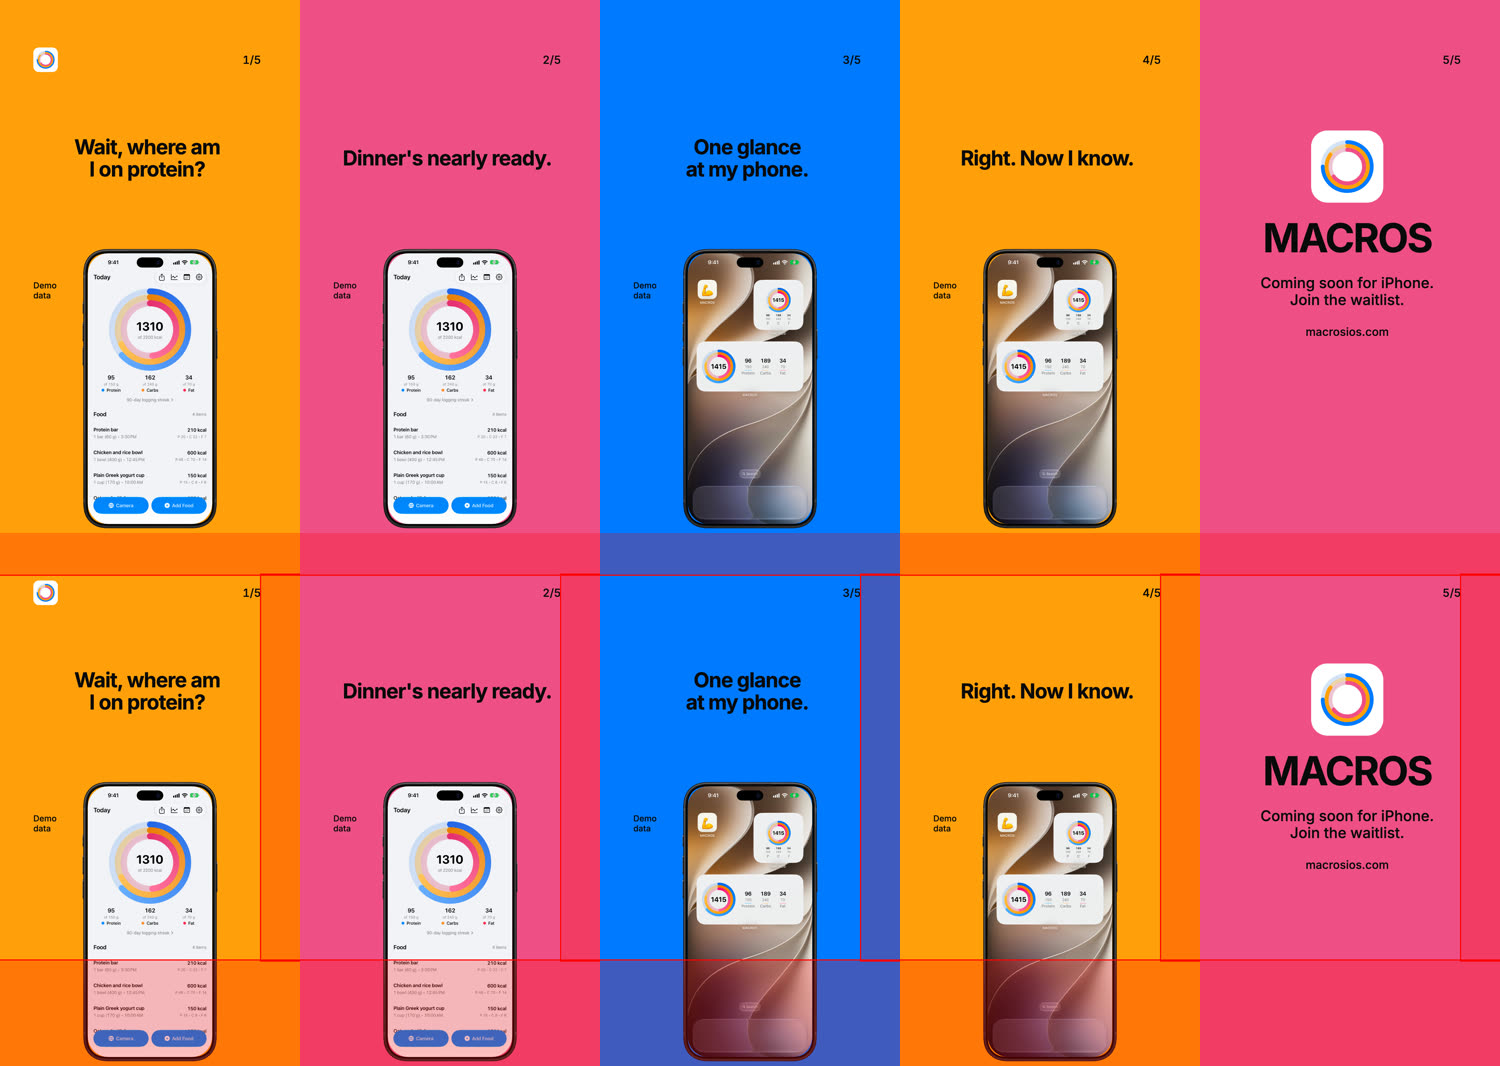
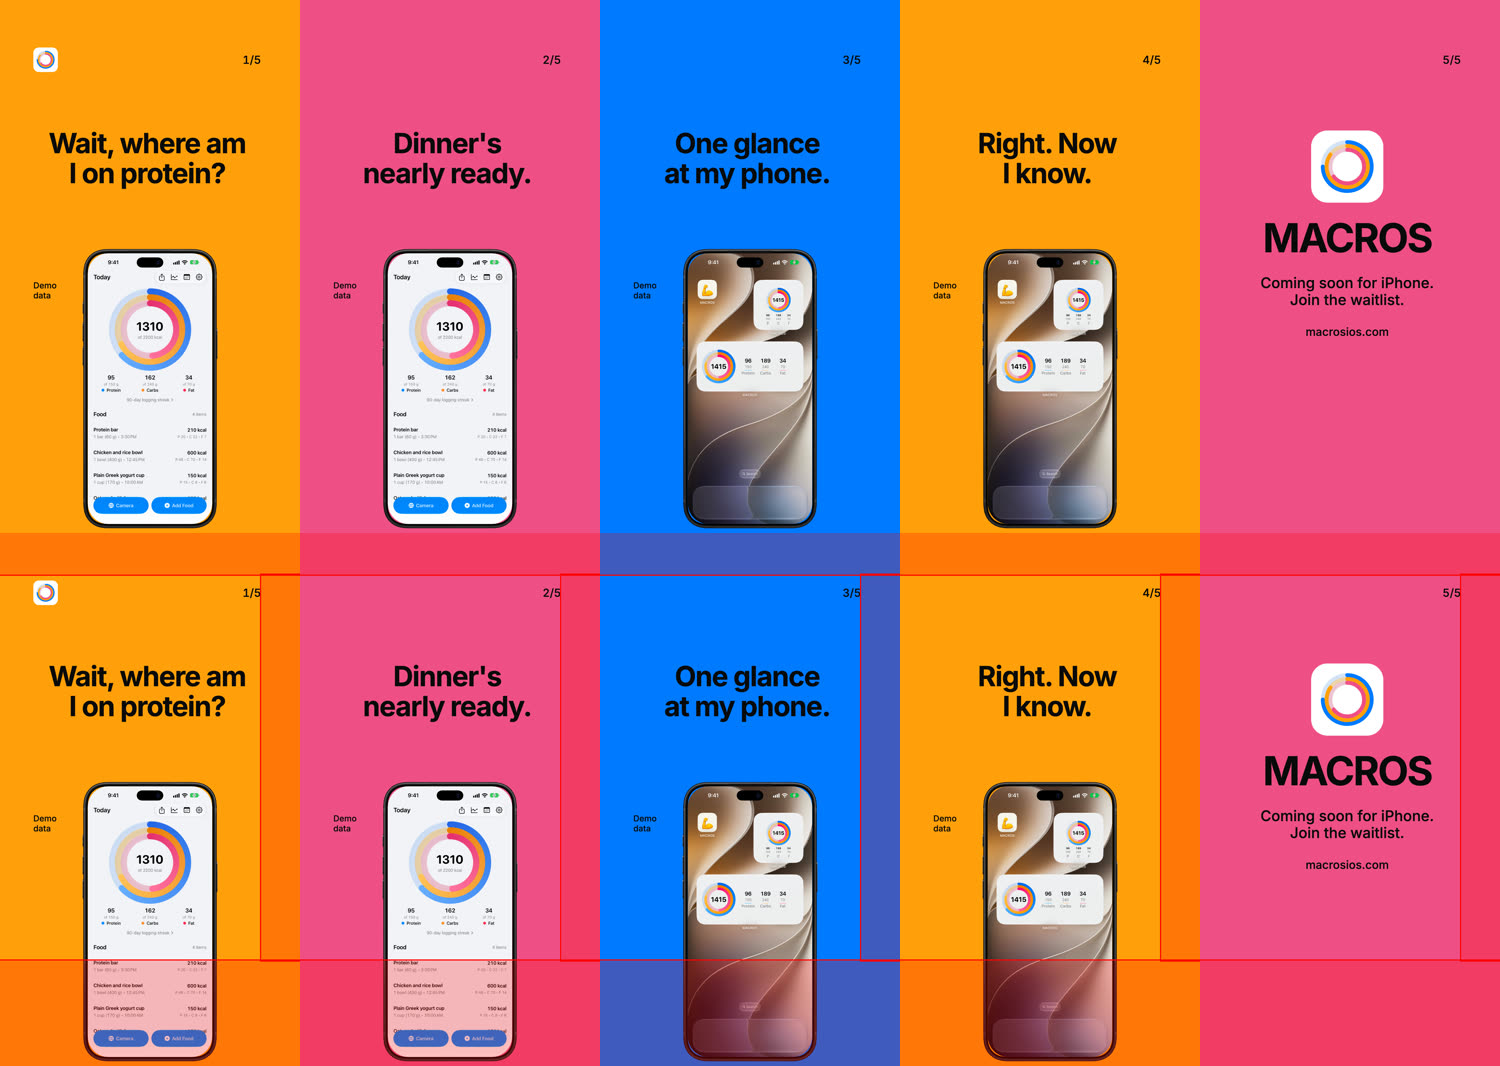
feat(slides): short and full headline variants at larger sizes
Each TikTok slide now renders in two headline variants with one size per variant:
- short (default, build/marketing/tiktok/): shorter headlines for five slides, 100 px, max two lines
- full (build/marketing/tiktok-full/): the original headlines, 105 px, max three lines

render:slides writes both variants; sheets:slides writes per-set sheets to
build/marketing/tiktok-compare/. Tracked evidence is five images (about 1.5 MB).

diff --git a/tools/media/trailer/src/slides.ts b/tools/media/trailer/src/slides.ts
@@ -3,8 +3,12 @@ import { COLORS } from "./shots";
 /** A screenshot in web/src/assets/app-images/ (without the extension), or "home-clean", the trailer's clean Home Screen still in public/sources/. */
 export type Screenshot = "app-home" | "app-scan-review" | "app-scan-details" | "app-add-food" | "app-history" | "home-clean";
 
+/** `short` is the shorter headline for copy 'short'; 'full' always uses `headline`. */
+export type Copy = "short" | "full";
+
 export type Slide = {
   headline: string; // empty on the last slide of a set, which is the CTA
+  short?: string; // used for copy 'short' when set, otherwise the headline is used
   color: string;
   screenshot?: Screenshot;
   /** Shows the small "Demo data" label beside the phone. */
@@ -22,33 +26,33 @@ export const SITE = "macrosios.com";
 const ring = [COLORS.protein, COLORS.carbs, COLORS.fat];
 
 /** Ring colours rotate: slide i of set n uses colour (n - 1 + i) mod 3, so neighbouring slides never match. */
-function set(n: number, slug: string, title: string, rows: [string, Screenshot?, boolean?][], caption: string, hashtags: string[], intro?: string): SlideSet {
-  const slides = rows.map(([headline, screenshot, demo], i): Slide => ({ headline, screenshot, demo, color: ring[(n - 1 + i) % 3] }));
+function set(n: number, slug: string, title: string, rows: [string, Screenshot?, boolean?, string?][], caption: string, hashtags: string[], intro?: string): SlideSet {
+  const slides = rows.map(([headline, screenshot, demo, short], i): Slide => ({ headline, short, screenshot, demo, color: ring[(n - 1 + i) % 3] }));
   slides.push({ headline: "", color: ring[(n - 1 + rows.length) % 3], intro });
   return { slug, title, slides, caption, hashtags };
 }
 
 export const SETS: SlideSet[] = [
   set(1, "protein-math", "Protein math", [
-    ["I stopped doing protein math in my head.", "app-home", true],
+    ["I stopped doing protein math in my head.", "app-home", true, "No more protein math."],
     ["Scan the label.", "app-scan-review"],
     ["Half the bag? Make it half.", "app-scan-details"],
     ["Protein's right there.", "app-home", true],
   ], "I got tired of adding up protein in my head, so I built an app that reads the label and keeps the total. Coming soon for iPhone.", ["#ProteinTracking", "#FoodDiary", "#GymTok", "#MACROSapp"]),
   set(2, "serving-on-the-box", "The serving on the box", [
-    ["\"Serving size\" isn't how much you ate.", "app-scan-review"],
+    ["\"Serving size\" isn't how much you ate.", "app-scan-review", undefined, "\"Serving size\" isn't your portion."],
     ["Eight servings. In this one box.", "app-scan-review"],
-    ["Scan it, then log what you actually had.", "app-scan-details"],
+    ["Scan it, then log what you actually had.", "app-scan-details", undefined, "Log what you actually ate."],
     ["Then sit down and eat.", "app-home", true],
   ], "A nutrition label lists one serving, and a box can hold eight. MACROS scans the label, then you log the amount you had. Coming soon for iPhone.", ["#NutritionLabels", "#FoodLogging", "#MacroTracking", "#MACROSapp"]),
   set(3, "why-my-email", "Why my email?", [
-    ["Why does a food diary need my email?"],
+    ["Why does a food diary need my email?", undefined, undefined, "Why does a diary need my email?"],
     ["Mine doesn't. Open it and log.", "app-home", true],
     ["Your diary stays on your phone.", "app-history"],
     ["Scanning is free.", "app-scan-review"],
   ], "I built MACROS so you can log food without making an account. Your diary stays on your phone. Coming soon for iPhone.", ["#FoodDiary", "#IndieApp", "#iPhoneApps", "#MACROSapp"], "I'm Juan, I built MACROS."),
   set(4, "breakfast-at-your-desk", "Breakfast at your desk", [
-    ["Breakfast again. First meeting in five minutes.", "app-add-food"],
+    ["Breakfast again. First meeting in five minutes.", "app-add-food", undefined, "Breakfast. Meeting in five."],
     ["Same yogurt as yesterday.", "app-add-food"],
     ["There it is.", "app-add-food"],
     ["Log it. Close the laptop lid.", "app-home", true],

diff --git a/tools/media/trailer/scripts/slide-sheets.ts b/tools/media/trailer/scripts/slide-sheets.ts
@@ -1,20 +1,47 @@
-// One review sheet per set: the five slides at 300 px wide, with the same five below them under the TikTok zone outlines.
-// Needs bun run render:slides first; this renders the outlined copies itself. Output: docs/evidence/tiktok-slides/set-<n>-<slug>.jpg
+// Contact sheets for the TikTok slideshows: bun run sheets:slides
+// A sheet shows one set in one variant: the five slides at 300 px wide, with the same five below under the TikTok zone outlines.
+// Renders the safe-zone copies itself. Every sheet goes to build/marketing/tiktok-compare/ (not tracked). The tracked evidence in
+// docs/evidence/tiktok-slides/ is five images: the short sheets for sets 2, 3 and 5, and compare-set<n>.jpg for sets 1 and 4
+// (short rows above full rows, each variant with and without the zones).
 import { mkdirSync } from "node:fs";
-import { fromRoot, run } from "./paths.ts";
-import { SETS } from "../src/slides.ts";
+import { TIKTOK_DIRS, fromRoot, run } from "./paths.ts";
+import { SETS, type Copy } from "../src/slides.ts";
 
-const OUT = fromRoot("docs/evidence/tiktok-slides");
-const TIKTOK = fromRoot("build/marketing/tiktok");
+const COMPARE = fromRoot("build/marketing/tiktok-compare");
+const EVIDENCE = fromRoot("docs/evidence/tiktok-slides");
 const WIDTH = 300;
+const COPIES: Copy[] = ["short", "full"];
+const SHORT_ONLY = [2, 3, 5];
 
 run(["bun", "scripts/render-slides.ts", "--safe-zones"]);
-mkdirSync(OUT, { recursive: true });
 
+/** Slide paths of one set in one variant, from the normal render or the zone review copies. */
+const slidePaths = (copy: Copy, n: number, review: boolean) => {
+  const root = review ? `${TIKTOK_DIRS[copy]}/review` : TIKTOK_DIRS[copy];
+  return SETS[n - 1].slides.map((_, i) => `${root}/set-${n}-${SETS[n - 1].slug}/${i + 1}.png`);
+};
+
+/** One JPG from rows of slide paths; every row has the same number of slides. */
+const sheet = (rows: string[][], out: string) => {
+  const cols = rows[0].length;
+  const paths = rows.flat();
+  const inputs = paths.flatMap((path) => ["-i", path]);
+  const scaled = paths.map((_, i) => `[${i}:v]scale=${WIDTH}:-1[s${i}]`);
+  const stacked = rows.map((row, r) => `${row.map((_, c) => `[s${r * cols + c}]`).join("")}hstack=${cols}[r${r}]`);
+  const filter = [...scaled, ...stacked, `${rows.map((_, r) => `[r${r}]`).join("")}vstack=${rows.length}[out]`].join(";");
+  run(["ffmpeg", "-hide_banner", "-loglevel", "error", ...inputs, "-filter_complex", filter, "-map", "[out]", "-q:v", "4", "-frames:v", "1", "-y", out]);
+};
+
+mkdirSync(COMPARE, { recursive: true });
+mkdirSync(EVIDENCE, { recursive: true });
 SETS.forEach((set, s) => {
-  const folder = `set-${s + 1}-${set.slug}`;
-  const inputs = [TIKTOK, `${TIKTOK}/review`].flatMap((root) => set.slides.flatMap((_, i) => ["-i", `${root}/${folder}/${i + 1}.png`]));
-  const scaled = Array.from({ length: 10 }, (_, i) => `[${i}:v]scale=${WIDTH}:-1[s${i}]`).join(";");
-  const filter = `${scaled};[s0][s1][s2][s3][s4]hstack=5[top];[s5][s6][s7][s8][s9]hstack=5[bottom];[top][bottom]vstack[out]`;
-  run(["ffmpeg", "-hide_banner", "-loglevel", "error", ...inputs, "-filter_complex", filter, "-map", "[out]", "-q:v", "4", "-frames:v", "1", "-y", `${OUT}/${folder}.jpg`]);
+  const n = s + 1;
+  const folder = `set-${n}-${set.slug}`;
+  COPIES.forEach((copy) => sheet([slidePaths(copy, n, false), slidePaths(copy, n, true)], `${COMPARE}/${folder}-${copy}.jpg`));
+  if (SHORT_ONLY.includes(n)) {
+    sheet([slidePaths("short", n, false), slidePaths("short", n, true)], `${EVIDENCE}/${folder}.jpg`);
+  } else {
+    const rows = COPIES.flatMap((copy) => [slidePaths(copy, n, false), slidePaths(copy, n, true)]);
+    sheet(rows, `${EVIDENCE}/compare-set${n}.jpg`);
+  }
 });

diff --git a/tools/media/trailer/src/slide.tsx b/tools/media/trailer/src/slide.tsx
@@ -3,14 +3,15 @@ import { AbsoluteFill, Img, staticFile } from "remotion";
 import { fontFamily } from "./font";
 import { Phone } from "./media";
 import { RingsMark } from "./rings-mark";
-import { CTA, SETS, SITE } from "./slides";
+import { CTA, SETS, SITE, type Copy } from "./slides";
 import { STYLE } from "./styles";
 
-export type SlideProps = { set: number; index: number; safeZones: boolean };
+export type SlideProps = { set: number; index: number; safeZones: boolean; copy: Copy };
 
 // TikTok keeps its own UI over the top 150 px, bottom 380 px and right 140 px; text stays inside x 120-940.
 const SAFE = { top: 150, bottom: 380, right: 140, left: 120 };
-const HEADLINE_SIZE = 74;
+// One size per variant, the largest that keeps every headline within its line limit (see docs/evidence/tiktok-slides/README.md).
+const HEADLINE_SIZE: Record<Copy, number> = { short: 100, full: 105 };
 const column: React.CSSProperties = { position: "absolute", left: SAFE.left, width: 1080 - SAFE.right - SAFE.left, textAlign: "center" };
 
 const Zones: React.FC = () => {
@@ -31,10 +32,11 @@ const EndSlide: React.FC<{ intro?: string }> = ({ intro }) =>
     <div style={{ marginTop: 60, fontSize: 41, fontWeight: 500 }}>{SITE}</div>
   </div>;
 
-export const Slide: React.FC<SlideProps> = ({ set, index, safeZones }) => {
+export const Slide: React.FC<SlideProps> = ({ set, index, safeZones, copy }) => {
   const { slides } = SETS[set - 1];
   const slide = slides[index - 1];
   const isEnd = index === slides.length;
+  const headline = copy === "short" ? slide.short ?? slide.headline : slide.headline;
   return <AbsoluteFill style={{ background: slide.color, color: STYLE.text, fontFamily }}>
     <div style={{ ...column, top: 170, height: 90, display: "flex", alignItems: "center", justifyContent: "space-between" }}>
       <div>{index === 1 && <RingsMark scale={0.34} />}</div>
@@ -42,7 +44,7 @@ export const Slide: React.FC<SlideProps> = ({ set, index, safeZones }) => {
     </div>
     {!isEnd && <>
       <div style={{ ...column, top: 300, height: slide.screenshot ? 540 : 1020, display: "flex", alignItems: "center", justifyContent: "center" }}>
-        <div style={{ fontSize: HEADLINE_SIZE, fontWeight: 700, letterSpacing: "-0.03em", lineHeight: 1.08, textWrap: "balance" }}>{slide.headline}</div>
+        <div style={{ fontSize: HEADLINE_SIZE[copy], fontWeight: 700, letterSpacing: "-0.03em", lineHeight: 1.08, textWrap: "balance" }}>{headline}</div>
       </div>
       {slide.screenshot && <Phone><Img src={staticFile(`screens/${slide.screenshot}.png`)} style={{ width: "100%", height: "100%", objectFit: "cover" }} /></Phone>}
       {slide.demo && <div style={{ position: "absolute", left: SAFE.left, top: STYLE.deviceTop + 120, width: 150, fontSize: 30, fontWeight: 500, lineHeight: 1.2 }}>Demo data</div>}

diff --git a/tools/media/trailer/scripts/render-slides.ts b/tools/media/trailer/scripts/render-slides.ts
@@ -1,10 +1,10 @@
-// Renders the TikTok slideshows, avatar and captions: bun run render:slides [--safe-zones]
-// Output: build/marketing/tiktok/set-<n>-<slug>/<i>.png, avatar.png, captions.md (--safe-zones writes review/ instead, with the TikTok zones outlined).
+// Renders the TikTok slideshows in both headline variants, plus avatar and captions: bun run render:slides [--safe-zones]
+// Output: build/marketing/tiktok/ (copy 'short') and build/marketing/tiktok-full/ (copy 'full'), each with
+// set-<n>-<slug>/<i>.png, avatar.png, captions.md. --safe-zones writes review/ instead, with the TikTok zones outlined.
 import { copyFileSync, mkdirSync, writeFileSync } from "node:fs";
-import { PUBLIC_SOURCES, fromRoot, run } from "./paths.ts";
-import { SETS, SITE } from "../src/slides.ts";
+import { PUBLIC_SOURCES, TIKTOK_DIRS, fromRoot, run } from "./paths.ts";
+import { SETS, SITE, type Copy } from "../src/slides.ts";
 
-const OUT = fromRoot("build/marketing/tiktok");
 const SCREENS_SRC = fromRoot("web/src/assets/app-images");
 const SCREENS_DEST = fromRoot("tools/media/trailer/public/screens");
 // home-clean is the trailer's Home Screen still (MACROS only), not an app screenshot; see docs/evidence/tiktok-slides/README.md.
@@ -21,15 +21,18 @@ for (const name of new Set(SETS.flatMap((s) => s.slides.map((slide) => slide.scr
   if (name) copyFileSync(screenFile(name), `${SCREENS_DEST}/${name}.png`);
 }
 
-const dir = safeZones ? `${OUT}/review` : OUT;
-SETS.forEach((set, s) => {
-  const setDir = `${dir}/set-${s + 1}-${set.slug}`;
-  mkdirSync(setDir, { recursive: true });
-  set.slides.forEach((_, i) => still("Slide", `${setDir}/${i + 1}.png`, { set: s + 1, index: i + 1, safeZones }));
-});
+for (const copy of Object.keys(TIKTOK_DIRS) as Copy[]) {
+  const out = TIKTOK_DIRS[copy];
+  const dir = safeZones ? `${out}/review` : out;
+  SETS.forEach((set, s) => {
+    const setDir = `${dir}/set-${s + 1}-${set.slug}`;
+    mkdirSync(setDir, { recursive: true });
+    set.slides.forEach((_, i) => still("Slide", `${setDir}/${i + 1}.png`, { set: s + 1, index: i + 1, safeZones, copy }));
+  });
 
-if (!safeZones) {
-  still("Avatar", `${OUT}/avatar.png`, {});
-  const captions = SETS.map((set, s) => `## Set ${s + 1}: ${set.title}\n\n${set.caption}\nhttps://${SITE}\n\n${set.hashtags.join(" ")}\n`);
-  writeFileSync(`${OUT}/captions.md`, `# TikTok captions\n\n${captions.join("\n")}`);
+  if (!safeZones) {
+    still("Avatar", `${out}/avatar.png`, {});
+    const captions = SETS.map((set, s) => `## Set ${s + 1}: ${set.title}\n\n${set.caption}\nhttps://${SITE}\n\n${set.hashtags.join(" ")}\n`);
+    writeFileSync(`${out}/captions.md`, `# TikTok captions\n\n${captions.join("\n")}`);
+  }
 }

diff --git a/tools/media/trailer/scripts/paths.ts b/tools/media/trailer/scripts/paths.ts
@@ -1,7 +1,11 @@
 import { spawnSync } from "node:child_process";
 import { fileURLToPath } from "node:url";
+import type { Copy } from "../src/slides.ts";
 
 export const fromRoot = (path: string) => fileURLToPath(new URL(`../../../../${path}`, import.meta.url));
+
+/** The TikTok slideshow renders, one folder per headline variant. */
+export const TIKTOK_DIRS: Record<Copy, string> = { short: fromRoot("build/marketing/tiktok"), full: fromRoot("build/marketing/tiktok-full") };
 
 export const REPO_ROOT = fromRoot("");
 export const OUT_DIR = fromRoot("build/marketing/trailer");

diff --git a/tools/media/trailer/src/root.tsx b/tools/media/trailer/src/root.tsx
@@ -8,7 +8,7 @@ import { Trailer, type Props } from "./trailer";
 // The rings mark sweeps in over its first 0.6 s; stills are taken at frame 30, after it settles.
 const STILL_FRAMES = 31;
 const defaultProps: Props = { variant: "coming-soon", safeZones: false };
-const slideProps: SlideProps = { set: 1, index: 1, safeZones: false };
+const slideProps: SlideProps = { set: 1, index: 1, safeZones: false, copy: "short" };
 
 export const Root: React.FC = () => (
   <>

diff --git a/docs/evidence/tiktok-slides/README.md b/docs/evidence/tiktok-slides/README.md
@@ -1,20 +1,34 @@
 # TikTok photo slideshows
 
-Five sets of five 1080 x 1920 stills and a 1080 x 1080 avatar, rendered from `tools/media/trailer/` with `bun run render:slides`. The PNGs are not tracked (`build/marketing/tiktok/`). Each JPG here is one set: the five slides at 300 px wide on top, the same five below with the TikTok zones outlined in red (top 150 px, bottom 380 px, right 140 px). Regenerate with `bun run sheets:slides`.
+Five sets of five 1080 x 1920 stills per headline variant, and a 1080 x 1080 avatar, rendered from `tools/media/trailer/` with `bun run render:slides`. The PNGs are not tracked: `build/marketing/tiktok/` holds the `short` variant (the default) and `build/marketing/tiktok-full/` holds `full`. Each JPG here is one sheet of five slides at 300 px wide. Regenerate with `bun run sheets:slides`.
 
-| Sheet | Set |
+Two headline variants:
+
+- `short`: the shorter headlines in `src/slides.ts`, one size (100 px) across all slides, at most two lines.
+- `full`: the original headlines, one size (105 px) across all slides, at most three lines.
+
+Tracked sheets (five images, about 1.5 MB, under the 2 MiB limit):
+
+| Sheet | Shows |
 | --- | --- |
-| `set-1-protein-math.jpg` | Protein math |
-| `set-2-serving-on-the-box.jpg` | The serving on the box |
-| `set-3-why-my-email.jpg` | Why my email? |
-| `set-4-breakfast-at-your-desk.jpg` | Breakfast at your desk |
-| `set-5-before-dinner.jpg` | Before dinner |
+| `set-2-serving-on-the-box.jpg` | Serving on the box, short; top row normal, bottom row with TikTok zones outlined |
+| `set-3-why-my-email.jpg` | Why my email?, short; same layout |
+| `set-5-before-dinner.jpg` | Before dinner, short; same layout |
+| `compare-set1.jpg` | Protein math, short (rows 1-2) above full (rows 3-4); each variant normal, then with zones |
+| `compare-set4.jpg` | Breakfast at your desk, short (rows 1-2) above full (rows 3-4); same order |
+
+The zone outlines are red: top 150 px, bottom 380 px, right 140 px.
 
 ## Checks
 
-- All 25 slides are 1080 x 1920 and `avatar.png` is 1080 x 1080 (`file`).
-- Every slide viewed. No headline wraps past two lines; one headline size (74 px) throughout, with the CTA slide's text scaled by the same factor (MACROS 144 px, intro 45 px, CTA 53 px, site 41 px). 74 px is the largest size that keeps every headline in two lines: at 75 px "Breakfast again. First meeting in five minutes." wraps to three lines, so 96-110 px does not fit this copy. Measured from the rendered PNGs, all headline ink sits inside x 120-940 (widest: set 4 slide 1, x 127-933). Text is clear of the top 150 px and bottom 380 px. The phone is the trailer's bezel at the same size and place on every slide that has one; it extends into the bottom zone, which is allowed because no text is there.
-- Claims against the screenshots and site:
+- Every slide of both variants viewed in the sheets, including the zone copies.
+- All 50 normal-render stills are 1080 x 1920 and both avatars are 1080 x 1080 (`file`).
+- Headline sizes are the largest found that keep each variant within its line limit, measured from the rendered PNGs (ink in y 280-880 for slides with a phone, so the phone is never counted):
+  - `short` 100 px: every headline two lines or fewer; widest headline ink 804 px (set 2 slide 1). 102 px puts set 2 slide 1 on three lines. 101 px was not rendered.
+  - `full` 105 px: every headline three lines or fewer; widest headline ink 799 px (set 3 slide 4). 110 px puts set 4 slide 1 on four lines, and 120 px puts set 1 slide 1 and set 3 slide 1 on four lines. 106 to 109 px were not rendered.
+  - All headline ink sits inside x 120-940 and below y 150. The lowest headline ink on a slide with a phone ends by y 692; the phone starts at y 890, so the phone did not move.
+- Copy changes are only the five approved short headlines. The CTA slide, the screenshots, the "Demo data" flags and the captions are unchanged.
+- Claims against the screenshots and site (unchanged by the variants):
   - "Eight servings. In this one box." `app-scan-review.png` shows "8 servings per container" on the label (zoomed to confirm; it is small in the 1320 px capture).
   - "Scanning is free." `web/src/data/site.ts` FAQ: logging, search, barcode and label scans are free; Pro is optional.
   - "Half the bag? Make it half." `app-scan-details.png` shows the Servings/Grams review; the servings stepper there steps 0.25.

diff --git a/tools/media/trailer/README.md b/tools/media/trailer/README.md
@@ -20,11 +20,16 @@ Each MP4 is 1080 × 1920, 30 fps, 870 frames, h264 yuv420p, stereo AAC (silent).
 
 ## TikTok slideshows
 
-Five photo sets (25 stills, 1080 x 1920) and a 1080 x 1080 `Avatar` still, same style as the trailer. Copy, colours, screenshots and the "Demo data" flag are one table in `src/slides.ts`; the `Slide` composition takes `set`, `index` and `safeZones`. Screenshots come from `web/src/assets/app-images/` and are copied to the ignored `public/screens/` on render.
+Five photo sets (25 stills per variant, 1080 x 1920) and a 1080 x 1080 `Avatar` still, same style as the trailer. Copy, colours, screenshots and the "Demo data" flag are one table in `src/slides.ts`; the `Slide` composition takes `set`, `index`, `safeZones` and `copy`. Screenshots come from `web/src/assets/app-images/` and are copied to the ignored `public/screens/` on render.
+
+Two headline variants, one size each across all slides of that variant (`HEADLINE_SIZE` in `src/slide.tsx`):
+
+- `short` (default, `build/marketing/tiktok/`): `Slide.short` headlines where set, otherwise the headline. Max two lines.
+- `full` (`build/marketing/tiktok-full/`): the full headlines. Max three lines.
 
 ```sh
-bun run render:slides   # build/marketing/tiktok/set-<n>-<slug>/<i>.png, avatar.png, captions.md
-bun run sheets:slides   # docs/evidence/tiktok-slides/set-<n>-<slug>.jpg (renders the safe-zone copies too)
+bun run render:slides   # both variants: build/marketing/tiktok{,-full}/set-<n>-<slug>/<i>.png, avatar.png, captions.md
+bun run sheets:slides   # build/marketing/tiktok-compare/ (per set, per variant) and the tracked docs/evidence/tiktok-slides/ images
 ```
 
 Slide 5 of each set is the end card: rings mark, MACROS, the CTA and macrosios.com, with no App Store badge until the app is live. Text stays out of TikTok's top 150 px, bottom 380 px and right 140 px.
